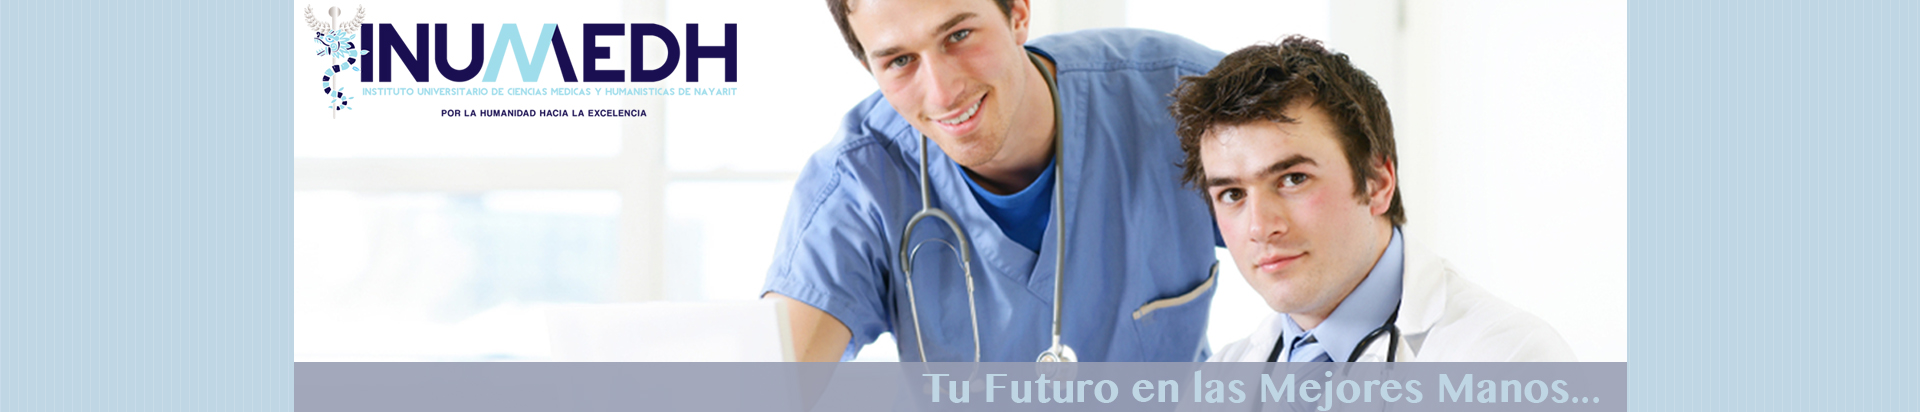
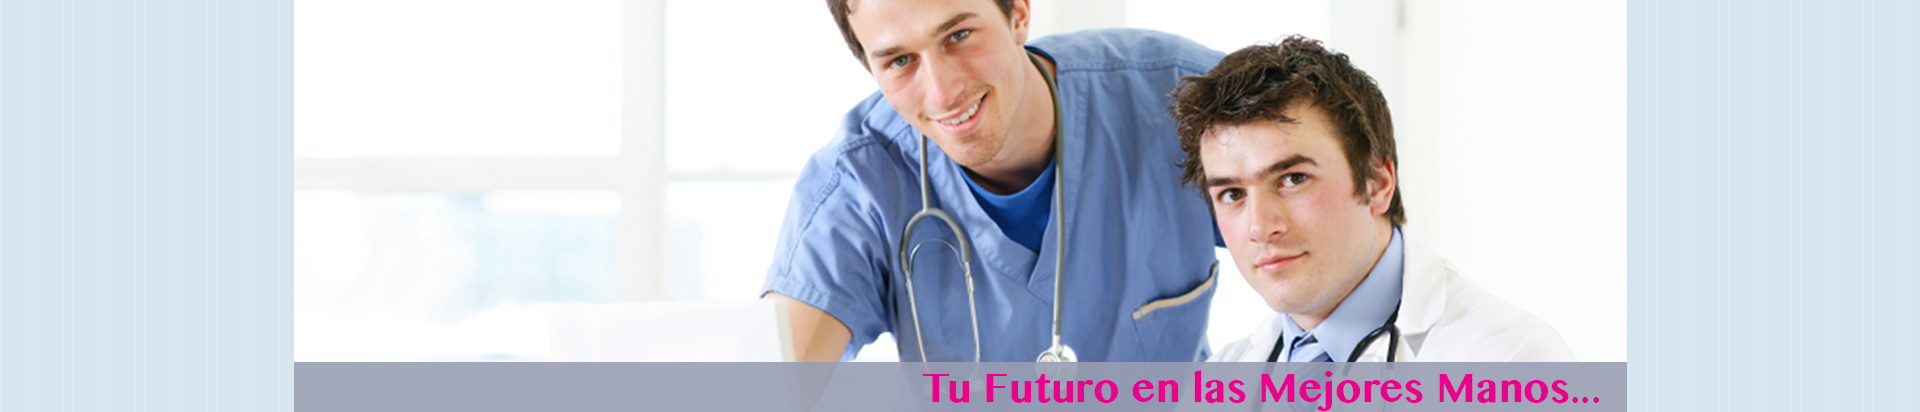
Update colores e imagenes

Changed region(s): [[0.1562, 0.0291, 0.4062, 0.2621], [0.4688, 0.9029, 0.8438, 1.0], [0.2188, 0.2621, 0.3438, 0.2913]]

diff --git a/css/screen.css b/css/screen.css
@@ -68,7 +68,14 @@ div.blankSeparator2 {
 #header {
 	background:#bfd6e4;
 	margin-top:0px;
-	border-bottom:1px solid #6d8696;
+	border-bottom:1px solid #ec008c;
+	background-color: #48a9e4;
+  background-image: -moz-linear-gradient(top, #0779bf 0%, #48a9e4 100%);
+  background-image: -ms-linear-gradient(top, #0779bf 0%, #48a9e4 100%);
+  background-image: -o-linear-gradient(top, #0779bf 0%, #48a9e4 100%);
+  background-image: -webkit-gradient(linear, left top, left bottom, color-stop(0, #0779bf), color-stop(1, #48a9e4));
+  background-image: -webkit-linear-gradient(top, #0779bf 0%, #48a9e4 100%);
+  background-image: linear-gradient(top, #0779bf 0%, #48a9e4 100%);
 }
 .logo {
 	float: left;
@@ -147,7 +154,7 @@ ul.sf-menu li li li:hover ul, ul.sf-menu li li li.sfHover ul {
 }
 .sf-menu li:hover { /* visited pseudo selector so IE6 applies text colour*/
 	background: rgba(215, 234, 238, 0.3);
-	border-top:2px solid #fff;
+	border-top:2px solid #8dc73f;
 }
 .sf-menu li a {
 	font-family: Arial, Helvetica, sans-serif;
@@ -156,7 +163,7 @@ ul.sf-menu li li li:hover ul, ul.sf-menu li li li.sfHover ul {
 	text-decoration:none;
 	text-transform:uppercase;
 	font-weight:600;
-	color: #414558;
+	color: #FFF;
 }
 li a#visited {
 	background: rgba(215, 234, 238, 0.3);
@@ -238,8 +245,8 @@ span.home {
 	margin: 0px 0 0 0;
 	padding: 0;
 	background:#fff;
-	border-top:1px solid #efefef;
-	border-bottom:5px solid #89a2b2;
+	border-top:1px solid #ec008c;
+	border-bottom:5px solid #8dc73f;
 }
 .flexslider .slides > li {
 	display: none;

diff --git a/capNoticia.php b/capNoticia.php
@@ -215,8 +215,8 @@ rObj = function (evt) {
       <div class="mainmenu">
         <div id="mainmenu">
           <ul class="sf-menu">
-            <li><a href="index.html"><span class="home"><img src="images/home.png" alt="" /></span>Inicio</a></li>
-            <li><a href="nosotros.html" id="visited"><span class="home"><img src="images/about.png" alt="" /></span>Nosotros</a></li>
+            <li><a href="index.html"  id="visited"><span class="home"><img src="images/home.png" alt="" /></span>Inicio</a></li>
+            <li><a href="nosotros.html"><span class="home"><img src="images/about.png" alt="" /></span>Nosotros</a></li>
             <li><a href="aspirantes.html"><span class="home"><img src="images/portfolio.png" alt="" /></span>Aspirantes</a>
               <ul>
                 <li><a href="#.html">Opcion1 Aspirantes</a></li>
@@ -264,7 +264,22 @@ rObj = function (evt) {
       <article>
         	<div id="cuerpo">
                 <div id="contenido">
-                    	<?php 
+                <div id="lateral">
+                        <ul>
+                        	<li><a href="detalle.php">Mi cuenta</a></li>
+                            <li><a href="capNoticia.php">Crear Noticia</a></li>
+                            <?php
+							if($admin==1){
+                            echo "<li><a href='catNoticias.php'>Catálogo de Noticias</a></li>";
+                            echo "<li><a href='creaUsr.php'>Crear Usuario</a></li>";
+                            echo "<li><a href='catUsr.php'>Catálogo de Usuario</a></li>";
+							}
+							?>
+                            <li><a href="salir.php">Salir</a></li>
+                        </ul>
+            	 </div>
+                
+               	  <?php 
 				if (isset($_POST['submit'])) { 
 				   //Crearemos el Articulo
 				
@@ -427,20 +442,7 @@ rObj = function (evt) {
                   
               </form> 
                 </div>
-                <div id="lateral">
-                        <ul>
-                        	<li><a href="detalle.php">Mi cuenta</a></li>
-                            <li><a href="capNoticia.php">Crear Noticia</a></li>
-                            <?php
-							if($admin==1){
-                            echo "<li><a href='catNoticias.php'>Catálogo de Noticias</a></li>";
-                            echo "<li><a href='creaUsr.php'>Crear Usuario</a></li>";
-                            echo "<li><a href='catUsr.php'>Catálogo de Usuario</a></li>";
-							}
-							?>
-                            <li><a href="salir.php">Salir</a></li>
-                        </ul>
-            	 </div>
+                
         </div>
 	</article>
       
@@ -451,28 +453,6 @@ rObj = function (evt) {
 <!-- econtainer ends here --> 
 <!-- About Content Part - Box Two ==================================================
 ================================================== -->
-<div class="container">
-  <div class="sepContainer1"></div>
-  <!-- Toggle -->
-  <h2>Oferta Educativa</h2>
-  <div class="toggle-trigger">Medicina General Integral. RVOE: ESLI-1817-117-2012</div>
-  <div class="toggle-container">
-    <p>
-    	Vision de la Carrera MGI
-
-        </p>
-  </div>
-  <div class="toggle-trigger">Maestría en Gerontología. RVOE: ESM-1817-055-2012</div>
-  <div class="toggle-container">
-    <p>Visión de la Maestria en Gerontología </p>
-  </div>
-  <div class="toggle-trigger">TSU en Optometría y Óptica. RVOE: ESTSU-1817-002-2012</div>
-  <div class="toggle-container">
-    <p>Vision de la Carreta TSU. </p>
-  </div>
-  
-  <!-- ENDS Toggle --> 
-</div>
 <div class="blankSeparator1"></div>
 
 <!--Footer ==================================================
